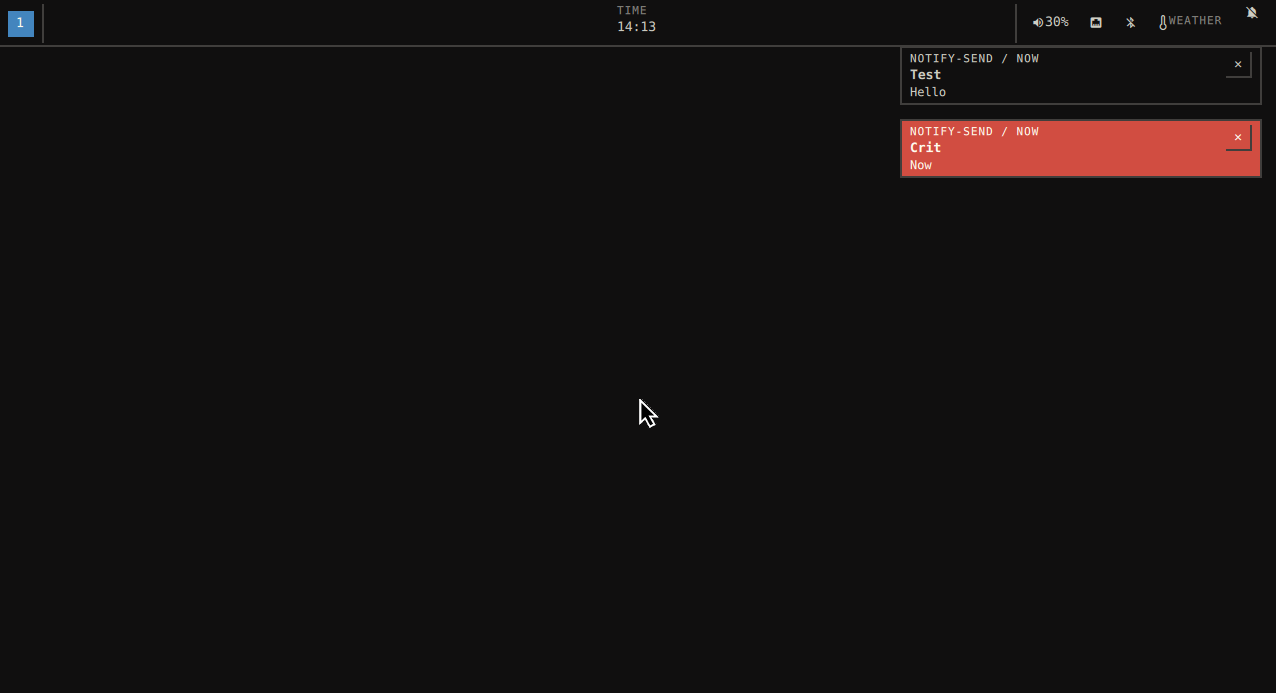
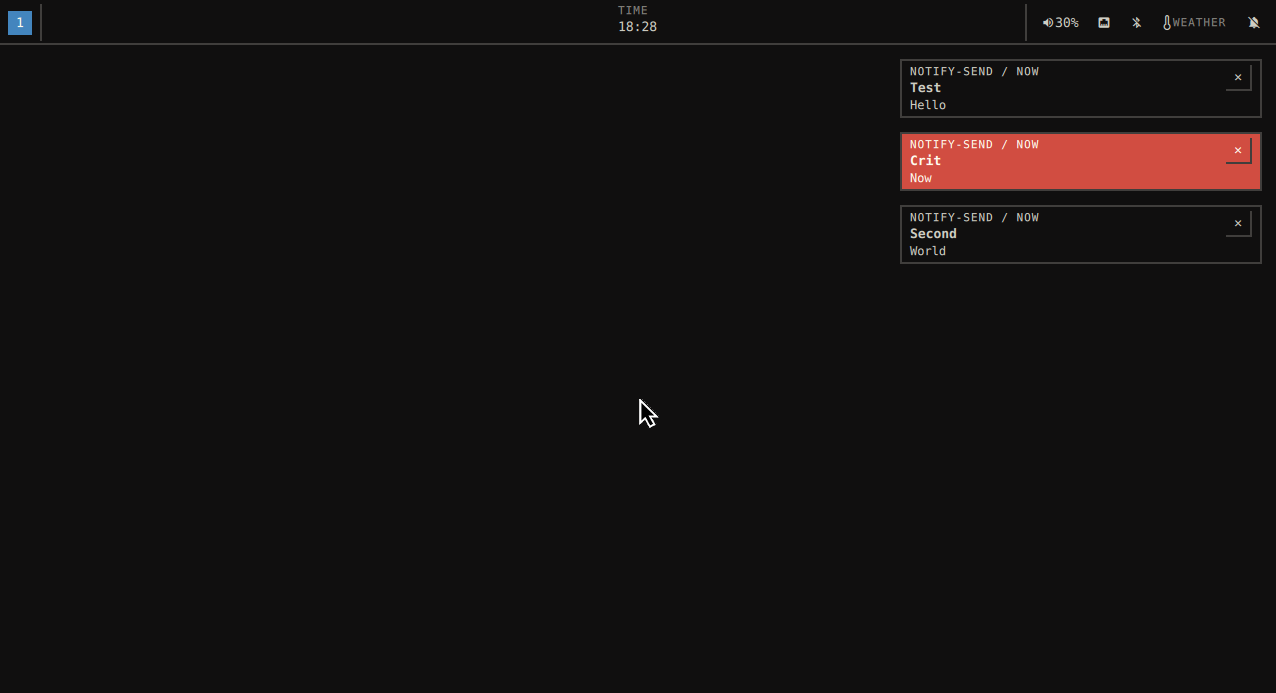
docs: cover m13b surfaces in usage/switchover and recapture screenshots

Changed region(s): [[0.0, 0.0, 1.0, 0.3939]]

diff --git a/docs/SWITCHOVER.md b/docs/SWITCHOVER.md
@@ -86,6 +86,29 @@ typing into a refocused window (the rig asserts the spawn via an
 argv-logging shim; the nested session has no focused client to receive
 it).
 
+**Update, 2026-07-30 (M13b):** round two of the e1504g trial feedback is
+fixed, per `docs/superpowers/plans/2026-07-30-m13b-trial-feedback-round-two.md`:
+launcher rows render real display names and the desktop entry's icon-theme
+icon as an image (the "apps list shows app IDs" symptom was the raw icon
+*name* — conventionally equal to the id — rendering as literal text in the
+glyph slot); a `bell` widget joins the default bar layout (pending count,
+left click toggles the center, right click flips DND — the DND glyph moves
+there from the indicators slot); `theme mode toggle` works with no
+wallpaper set (mode-matched Flexoki fallback written through the same
+theme.json pipeline matugen uses); the nix runner shows honest
+`SEARCHING`/`NO RESULTS`/`SEARCH FAILED`/`NO NIX` states and fires a
+`NIX RUN` toast on Enter; and the screensaver cycles effects indefinitely
+after a `screensaver.holdSeconds` hold instead of freezing on first
+convergence. All VM-only verified (mac VM rig; e1504g is mid-trial and
+untouched). Host-trial territory, recorded rather than faked: a real
+host's icon theme resolving real apps' icons (the rig proves one honestly
+installed hicolor fixture icon plus the no-icon fallback), real
+`nix search` timing against cold evaluation caches (the rig's nix is a
+canned shim; the `SEARCHING` row exists precisely for that
+tens-of-seconds first run), and the wall-clock feel of screensaver
+cycling overnight (the rig shortens `holdSeconds` and watches the
+`cycles` counter, not hours of runtime).
+
 ## 1. Parity table
 
 Evidence sources: the e1504g sweep at commit `1300b02`
@@ -105,10 +128,12 @@ hardware.
 | Bar | Hardware-verified | e1504g @ 1300b02, `artifacts/e1504g/plain.png`; g815 HEAD sweep @ 52e2db0, `artifacts/g815-head/plain.png` (`docs/screenshots/bar-niri.png`) — real BAT/Wi-Fi/Bluetooth cells the VM cannot produce, and confirms the `ca56dfc` padding fix (symmetric insets, no left/top-only gutter) on real hardware |
 | Bar: workspaces order + hide-empty | VM-only | M13 (3c7d6fd): cells sort by the backend's per-output `idx` ordinal and a workspace renders only when occupied or active/focused (`shell/Bar/workspaces.js`, unit-covered in `tests/tst_workspaces_model.qml` over fake workspace+window models). Every plain VM smoke screenshot shows the nested session's occupied/focused workspaces only; the shaping host context — nine persistent named niri workspaces, which DMS hid when empty — is exactly what the e1504g trial itself verifies |
 | Bar: SNI tray | VM-only | mac VM rig @ bd20ef6, `dev/smoke-niri.sh --tray`, `docs/screenshots/tray-niri.png` (recaptured 2026-07-30 with M13's vertically centered cells) — six real `dev/sni-stub.py` StatusNotifierItems collapse to three pinned cells plus a "+3" overflow drawer, which expands to "−3" over the same `tray expand` IPC call the overflow cell's own click takes. M13 (783275d) added item interactions: the `--tray` drive calls `tray activate` and asserts the stub's `--activate-file` recorded a real `Activate(x, y)` over the session bus; DBusMenu *open* on a real click renders a platform QMenu no headless run can dismiss, so that leg — and any real application's menu contents — is host-trial territory. Not yet re-swept on a real host |
-| Bar: indicators slot | VM-only | mac VM rig @ bd20ef6, `dev/smoke-niri.sh --notify`, `docs/screenshots/indicators-niri.png` — the DND bell-off glyph appears after `notifications setDnd true` over IPC; idle-inhibit shares the same widget and reactivity fix but has no dedicated smoke screenshot yet; not yet re-swept on a real host |
+| Bar: indicators slot | VM-only | mac VM rig @ bd20ef6, `dev/smoke-niri.sh --notify` — the DND bell-off glyph appeared after `notifications setDnd true` over IPC. M13b (55e1ba4) moved DND display to the bell widget (row below), leaving this slot idle-inhibit only; idle-inhibit shares the same reactivity fix but has no dedicated smoke screenshot yet; not yet re-swept on a real host |
+| Bar: notification bell | VM-only | M13b (55e1ba4): `bell` joins the default right region (the one owner-requested default-layout change; every no-config smoke screenshot now shows the cell). `dev/smoke-niri.sh --notify` flips DND over IPC and screenshots the bell-off swap (`docs/screenshots/indicators-niri.png`, recaptured 2026-07-30 — the bell cell crossed out with three toast cards up); `--center` asserts `notifications status` (new verb) through pending:3 → centerOpen:true → pending:0 across a showHistory toggle, the same center.open()/close() the cell's own left click calls. A real pointer click on the cell is host-trial territory (no synthetic pointer exists in the rig) |
 | Bar: settings-driven layout + custom modules | VM-only | mac VM rig @ bd20ef6, `dev/smoke-niri.sh --bar-layout` — a reordered left region led by six `bar.modules` entries: one happy-path `command` module (`CMD 42`), four exercising each of `CommandModule.qml`'s failure paths (all render the honest `MODULE ERROR` cell), and one `qml` module (`QML OK`); every other smoke mode's own screenshot, carrying no `bar` config, keeps proving the no-config fallback renders today's exact default arrangement; not yet re-swept on a real host. `docs/screenshots/bar-layout-niri.png` was recaptured 2026-07-30 with the M12 `github` cell heading the region, which pushes the `qml` module past the visible clip at the VM's 1276px width — its rendering stays proven by the bd20ef6 capture and `tests/tst_bar_layout.qml` |
 | Bar: github widget + panel | VM-only | mac VM rig @ 8dfbe55, `dev/smoke-niri.sh --bar-layout` with a PATH-shimmed `gh` returning canned counts — `docs/screenshots/bar-layout-niri.png` (recaptured 2026-07-30) shows the octicon + `3/2` cell leading the custom left region; every default-layout mode's screenshot keeps proving the widget is absent without opt-in. M13 (fb65ee2) replaced the cell's xdg-open jump with a GithubPanel (two ledger sections, title + dimmed repo rows, row click opens the URL): `dev/smoke-niri.sh --panel github` drives `panel open github` against the extended gh shim and screenshots both sections' canned rows. Real `gh` auth states (`NO AUTH`, live counts) and real row-click xdg-open remain host-trial territory |
 | Menu | Hardware-verified | e1504g @ 1300b02, `artifacts/e1504g/menu.png`; g815 HEAD sweep @ 52e2db0, `artifacts/g815-head/menu.png` (`docs/screenshots/menu-niri.png`) |
+| Menu: app names + icons | VM-only | M13b (b838b8e), `dev/smoke-niri.sh --menu` — two fixture `.desktop` entries in the isolated HOME, one with a 48x48 icon honestly installed into the hicolor tree, one whose icon no theme here resolves: `debug query` asserts both rows carry display-name labels (`Iconic Test App`, `Formal Test App`, never raw ids) with `iconSource` set only for the resolvable one, and `docs/screenshots/menu-apps-niri.png` (2026-07-30) shows the icon rendered as a real image beside the no-icon fallback row. The e1504g trial's own icon theme resolving real apps (firefox, mpv, …) is exactly what the host must confirm |
 | Panel: audio | Hardware-verified, fix now visually confirmed | e1504g @ 1300b02 found the percentage-lost-behind-elision defect (`artifacts/e1504g/panel-audio.png`); fixed at `4aad1d6`. **Closed:** the g815 HEAD sweep @ 52e2db0 re-screenshotted it against real long device names (`GB206 High Definition Audio Controll.`, `800 Series Chipset Family Audio Cont.`) at plausible non-1% percentages — `artifacts/g815-head/panel-audio.png` (`docs/screenshots/panels-niri.png`) |
 | Panel: network | Hardware-verified | e1504g @ 1300b02, `artifacts/e1504g/panel-network.png`; g815 HEAD sweep @ 52e2db0, `artifacts/g815-head/panel-network.png` — real SSID `kaiiserni` at 62% (the 0..1-scaling bug stayed fixed on a second real host) |
 | Panel: bluetooth | Hardware-verified, fix now visually confirmed | e1504g @ 1300b02 found the adapter-state title-case defect (`artifacts/e1504g/panel-bluetooth.png`); fixed at `4aad1d6`. **Closed:** the g815 HEAD sweep @ 52e2db0 re-screenshotted it against a real adapter and three real paired devices (`MX Master 3S M`, `CMF Headphone Pro`, `AirPods Pro`), status correctly uppercase `ENABLED` — `artifacts/g815-head/panel-bluetooth.png` |
@@ -119,7 +144,7 @@ hardware.
 | Calendar: RRULE expansion | VM-only | `tests/tst_calendar_ics.qml` @ aa3c61a — bounded expansion of FREQ=DAILY/WEEKLY/MONTHLY/YEARLY with INTERVAL/COUNT/UNTIL/weekly-BYDAY/EXDATE, unsupported rules falling back to a single occurrence. Pure-JS logic, so the headless tests are the whole evidence; there is nothing to screenshot |
 | Menu: calculator | VM-only | mac VM rig @ 61da420, `dev/smoke-niri.sh --menu` — `debug query "2+2*3"` returns the `= 8` CALC row as the first ranked result (the run's `calc-query.json` artifact); parser edge cases in `tests/tst_menu_calc.qml` |
 | Menu: emoji | VM-only | mac VM rig @ 913d9a3, `dev/smoke-niri.sh --menu` — `debug query ":e thumbs"` returns the 👍 THUMBS UP row from the vendored `emoji.json` (the run's `emoji-query.json` artifact); dataset load + search in `tests/tst_menu_emoji.qml` |
-| Menu: nix runner | VM-only | mac VM rig @ 76757d5, `dev/smoke-niri.sh --menu` — two-pass `debug query ":nix hello"` against the PATH-shimmed `nix` returns the canned `hello` attr row after the 500ms debounce (the run's `nix-query.json` artifact). Real `nix search`/`ghostty` spawn behaviour is host-trial territory |
+| Menu: nix runner | VM-only | mac VM rig @ 76757d5, `dev/smoke-niri.sh --menu` — two-pass `debug query ":nix hello"` against the PATH-shimmed `nix` returns the canned `hello` attr row after the 500ms debounce (the run's `nix-query.json` artifact). M13b (5bea2ed) added the honest states, each asserted by the extended drive against a query-dispatching shim: `SEARCHING` while the shim blocks on a gate flag file, `NO RESULTS` on a clean `{}`, `SEARCH FAILED` on a nonzero exit, plus a screenshotted `NIX RUN` toast (`nix-toast.png`) on row activation with a `notifications status` popup-count assert. Real `nix search` timing (the tens-of-seconds cold-cache first run the `SEARCHING` row exists for) and the `ghostty` spawn stay host-trial territory |
 | Screenshot IPC | VM-only | mac VM rig @ fd56a5f, `dev/smoke-niri.sh --screenshot` — `screenshot full`'s replied path exists as a valid PNG and `wl-paste --list-types` offers `image/png` in-session. M13 (d2d55a5) added the region watchdog and cancel: the extended drive starts `screenshot region`, round-trips `status` through `capturing:true`, calls `cancel`, and confirms cancelled-not-stuck state plus a still-working `full` afterward in the same session. The themed slurp overlay under a real drag stays host-trial — no synthetic pointer exists in the rig |
 | Panel: weather | **Unverified** | Never included in any real-hardware sweep (neither e1504g's 18-mode run, the older g815 run, nor the 2026-07-29 g815 HEAD resweep drove `--panel weather`); only ad hoc dev-loop crops exist in `artifacts/` (`weather-crop*.png`), not a hardware or a repeatable VM smoke run |
 | Notifications | Hardware-verified | e1504g @ 1300b02, `artifacts/e1504g/notify.png`, `notify-center.png`; g815 HEAD sweep @ 52e2db0, `artifacts/g815-head/notify.png`, `notify-center.png` (`docs/screenshots/notifications-niri.png`) |
@@ -131,6 +156,8 @@ hardware.
 | Picker | Hardware-verified | e1504g @ 1300b02, `picker-grid.png`, `picker-select.png`; g815 HEAD sweep @ 52e2db0, `artifacts/g815-head/picker-grid.png` (`docs/screenshots/picker-niri.png`), `picker-selection.png` — real matugen recolor on choose |
 | Greeter | **VM-only** | Never run against real greetd on either Linux host (neither has switched to `nixosModules.formalshell-greeter`), and this is intentionally out of scope for `dev/smoke-niri.sh`-style hardware sweeps. Verified via `just vm-greeter` / `dev/smoke-greeter.sh` on the mac VM rig, re-run 2026-07-29 at the same HEAD: real PAM auth round trip, `artifacts/greeter/greeter-pre-auth.png` (`docs/screenshots/greeter-niri.png`), `greeter-wrong-pw.png`, `greeter-post-auth.png` |
 | Theming (matugen) | Hardware-verified | e1504g @ 1300b02, `artifacts/e1504g/wallpaper.png`; g815 HEAD sweep @ 52e2db0, `artifacts/g815-head/wallpaper.png` — real matugen run recoloring bar/workspace accents from a wallpaper, confirmed on a second real host |
+| Theming: no-wallpaper mode toggle | VM-only | M13b (bf993e3), `dev/smoke-niri.sh --theme-toggle` — with wallpaper kept `""`, `theme mode toggle` flips `theme status` to `mode:"light"` and back, and the paired screenshots (`docs/screenshots/theme-dark-niri.png` / `theme-light-niri.png`, 2026-07-30, same session seconds apart) show the whole shell recoloring between the Flexoki dark and light fallbacks with no matugen involved; a following `--wallpaper` run proves the matugen path unchanged |
+| Screensaver: continuous cycling | VM-only | M13b (f336f98), `dev/smoke-niri.sh --screensaver` extended — `holdSeconds` shortened via the settings fixture, then past convergence + hold the run asserts `screensaver frameInfo`'s new `cycles` counter incremented and the reported effect changed with no IPC nudge (reroll logic unit-covered in `tests/tst_screensaver_effect.qml`: random never repeats the immediately previous effect, a pinned name rerolls a fresh seed); `--screensaver-gif` still records single deterministic effects, cycling suspended while `frame(n)` pins the surface. Overnight wall-clock feel on a real idle host is trial territory |
 
 Everything marked hardware-verified above is the **niri** backend only. The
 Hyprland backend has never run on either Linux host — it exists only as

diff --git a/docs/USAGE.md b/docs/USAGE.md
@@ -33,7 +33,7 @@ arrangement:
     "layout": {
       "left": ["workspaces", "activeWindow"],
       "center": ["clock", "nowPlaying"],
-      "right": ["battery", "audio", "network", "bluetooth", "weather", "tray", "indicators", "custom:cpu"]
+      "right": ["battery", "audio", "network", "bluetooth", "weather", "tray", "bell", "indicators", "custom:cpu"]
     },
     "modules": [
       { "id": "cpu", "type": "command", "command": ["my-cpu-script"], "interval": 5000, "timeout": 5000 }
@@ -43,8 +43,11 @@ arrangement:
 ```
 
 Builtin widget names: `workspaces`, `activeWindow`, `clock`, `nowPlaying`,
-`battery`, `audio`, `network`, `bluetooth`, `weather`, `tray`, `indicators`,
-`github` (opt-in only — never part of the default arrangement).
+`battery`, `audio`, `network`, `bluetooth`, `weather`, `tray`, `bell`,
+`indicators`, `github` (opt-in only — never part of the default
+arrangement; `bell` by contrast IS part of the defaults since M13b, so a
+config predating it that spells out its own `right` region won't show the
+bell until it's added there).
 An absent region falls back to its own default arrangement above (an
 absent `bar` key entirely is the same as an absent region for all three);
 a present-but-empty region (`[]`) stays empty. An unknown widget name, or
@@ -83,10 +86,21 @@ native-styled popup (quickshell's platform-menu path owns that widget
 outright), not a shell-themed surface. Past 4 visible items the rest
 collapse into one more cell (`+N`) that expands the row to reveal them all.
 
-**Indicators** — DND and idle-inhibit each render as their own glyph, only
-while the condition holds; the whole slot disappears when neither does.
-Recording has no glyph yet — nothing in this shell or a reachable service
-reports screen recording as of 2026-07-29.
+**Bell** — an always-visible notification cell (M13b): bell glyph, swapping
+to bell-off while DND is on, plus a pending-count meta label whenever
+notifications are sitting unseen in the `pending` tier (see
+[Notifications](#notifications)). Left click toggles the notification
+center — the same surface `notifications showHistory` drives — with the
+panel-open accent dot while it's open; right click flips DND through the
+one existing DND state machine (`notifications toggleDnd`'s), never a
+second one.
+
+**Indicators** — transient session-state glyphs, only while the condition
+holds; the whole slot disappears otherwise. Today that means idle-inhibit
+alone: the DND bell-off glyph this slot carried since M10 moved to the
+always-visible bell cell above, which owns both DND display and its
+toggle. Recording has no glyph yet — nothing in this shell or a reachable
+service reports screen recording as of 2026-07-29.
 
 **GitHub** — opt-in via `bar.layout` (add `"github"` to a region); polls one
 `gh api graphql` call every `github.intervalMs` (ms, default 300000) for the
@@ -124,8 +138,12 @@ Colors are wallpaper-derived end to end, no restart required:
    `$XDG_STATE_HOME/formalshell/theme.json` and `niri-border.kdl`. `Theme`
    (the shell's color singleton) watches `theme.json` live, so every bar
    token recolors on the next paint. With no wallpaper set, `theme.json` is
-   written straight from the static Flexoki fallback instead, so the
-   pipeline is uniform from a fresh install.
+   written straight from the bundled Flexoki fallback instead — the variant
+   matching the current mode (M13b), so `theme mode toggle` visibly flips
+   the whole shell between Flexoki dark and light through the exact same
+   theme.json write a matugen run uses, and the pipeline is uniform from a
+   fresh install (whose seeded first-boot theme.json stays the dark
+   variant).
 4. A per-screen `Background` surface (background Wayland layer) shows the
    current wallpaper, or a flat `Theme.color.background` fill when none is
    set.
@@ -182,6 +200,15 @@ submenu. `when`/`checked` are shell condition strings, batched into one
 `Process` per condition on menu-open (never per keystroke) — `when: "false"`
 hides a node outright, a real command's exit code decides visibility live
 (e.g. `system.logout`'s `test -n "$NIRI_SOCKET"` guard).
+
+**App rows.** Each launchable app shows the entry's display name (falling
+back to its id only when the name is genuinely empty) and renders the
+entry's icon-theme icon as an image at the glyph cell's size — radius 0,
+no border, `docs/DESIGN.md`'s one sanctioned image-icon exception (M13b;
+before that the raw icon *name*, which conventionally equals the app id,
+rendered as literal text in the icon slot). An icon the current theme
+can't resolve means the row simply has no leading image — never a
+broken-image box.
 
 **User overrides.** `~/.config/formalshell/menu.jsonc` merges **per-key over**
 the default tree — user wins field-by-field, and `"hidden": true` removes a
@@ -246,10 +273,17 @@ same rows (`:e thumbs` → 👍); a bare `:e` browses the head of the list.
 **Nix package runner.** `menu summon nix` (or the `:nix <query>` root
 trigger) searches nixpkgs as you type: a debounced (500ms, one in-flight,
 stale results dropped) `nix search nixpkgs <query> --json`, rows showing
-attr name + version with a dimmed description. Enter spawns the package in
-a throwaway terminal (`ghostty -e sh -c 'nix run nixpkgs#<attr>; read'` —
-`read` holds the window open after it exits). No `nix` on PATH renders a
-single dim `NO NIX` row instead.
+attr name + version with a dimmed description. Every state renders
+honestly as a single dim, non-activatable note row (M13b — a real host's
+first `nix search` can spend tens of seconds warming evaluation caches,
+which used to look like nothing happening): `SEARCHING` while a run is in
+flight, `NO RESULTS` for a clean zero-hit answer, `SEARCH FAILED` for a
+non-zero exit or unparseable output, and `NO NIX` when the binary is
+missing from PATH entirely. Enter on a result spawns the package in a
+throwaway terminal (`ghostty -e sh -c 'nix run nixpkgs#<attr>; read'` —
+`read` holds the window open after it exits) and immediately fires a
+`NIX RUN <attr>` notification through the shell's own stack, so the launch
+is visible even while the terminal is still seconds from mapping.
 
 **IPC.** Every route is summonable for direct compositor keybinds:
 `toggle()` (deliberately no-argument — root summon if closed, close if
@@ -318,10 +352,16 @@ from urgency alone.
 — it survives shell restarts and `keepOnReload` generation switches instead
 of silently resetting to off.
 
+**The bar's bell cell** (see [Bar](#bar)) drives the same machinery with a
+pointer: left click toggles the center `showHistory` drives, right click
+flips the same DND flag `toggleDnd` does, and its pending-count meta label
+reads the same `pending` tier `status` reports.
+
 **IPC** (`target: "notifications"`):
 
 ```bash
 qs ipc --any-display -p <store-path>/share/formalshell call notifications showHistory     # toggle the center
+qs ipc --any-display -p <store-path>/share/formalshell call notifications status          # {"dnd":…,"pending":…,"popups":…,"centerOpen":…}
 qs ipc --any-display -p <store-path>/share/formalshell call notifications toggleDnd       # flip DND, returns "on"/"off"
 qs ipc --any-display -p <store-path>/share/formalshell call notifications dndState        # "on" | "off"
 qs ipc --any-display -p <store-path>/share/formalshell call notifications markAllSeen     # drain pending -> past
@@ -707,6 +747,17 @@ falls back to random and logs a warning, never a hard error):
 { "screensaver": { "effect": "decrypt" } }
 ```
 
+**Continuous cycling** (M13b). After converging, the banner holds for
+`screensaver.holdSeconds` (default 6), then the surface rerolls and
+animates again, indefinitely, until real input dismisses it —
+`"random"` picks a fresh effect each cycle and never repeats the
+immediately previous one, a pinned name replays itself with a fresh
+activation seed so the run still looks different. The loop takes no idle
+inhibitor, so system suspend fires exactly as it would without it.
+`screensaver frameInfo` reports the resolved effect, its convergence
+frame, and a `cycles` counter (completed reroll count, 0 until the first
+one) so cycling is observable without screenshots.
+
 **Replacing the banner.** `screensaver.asciiPath` points at any UTF-8 text
 file to use instead of the bundled logo — empty (the default) keeps
 `branding/screensaver.txt`, and a custom file that fails to load falls back
@@ -731,6 +782,7 @@ into the lock screen after continuing to show for that much longer.
 qs ipc --any-display -p <store-path>/share/formalshell call screensaver start
 qs ipc --any-display -p <store-path>/share/formalshell call screensaver stop
 qs ipc --any-display -p <store-path>/share/formalshell call screensaver status  # {"active":…,"isIdle":…,"guardMediaPlayback":…,"mediaPlaying":…}
+qs ipc --any-display -p <store-path>/share/formalshell call screensaver frameInfo  # {"effect":…,"convergenceFrame":…,"cycles":…}
 ```
 
 `dev/smoke-niri.sh --screensaver` additionally accepts `SCREENSAVER_EFFECT`

diff --git a/README.md b/README.md
@@ -12,10 +12,10 @@ modules so a consuming config needs almost no glue.
 
 ![FormalShell bar on niri](docs/screenshots/bar-niri.png)
 
-**Status:** pre-alpha. M1 through M13 (walking skeleton through the greeter
+**Status:** pre-alpha. M1 through M13b (walking skeleton through the greeter
 and NixOS modules, bar completeness, screensaver effect gifs, DMS parity
-gaps + EDS/GOA calendar events, and the first e1504g daily-drive trial's
-feedback fixes) are complete, behind CI (qmllint + headless
+gaps + EDS/GOA calendar events, and two rounds of e1504g daily-drive trial
+feedback) are complete, behind CI (qmllint + headless
 qml-tests) and nested-compositor smoke loops for every change. See
 `docs/SWITCHOVER.md` for the current hardware-vs-VM verification parity
 table before switching a real machine over, and
@@ -29,14 +29,17 @@ launches it inside an isolated **nested** niri session, screenshots that
 session, and tears it down — safe to run against a live host by design.
 Most were recaptured 2026-07-29 from **g815**, the owner's real niri
 machine, showing genuinely populated hardware (real battery, Wi-Fi,
-Bluetooth, audio, backlight) rather than the VM's empty state. The greeter
-shot, the M10 bar shots (tray, indicators, custom modules), and the three
-M13 recaptures (tray with vertically centered cells, custom modules with
-the github cell and the idx-sorted workspace region, calendar with a
-selected day's inverted cell) are VM-sourced — no greetd module on g815
-yet, and g815 hasn't been re-swept since M10 landed. Details on what each shot proves are
-in `CLAUDE.md`'s verification loop section (the `dev/smoke-niri.sh` flag
-each was captured with) and git history.
+Bluetooth, audio, backlight) rather than the VM's empty state — those
+shots predate M13b, so their bars lack the notification bell cell. The
+greeter shot, the M10 bar shots (tray, custom modules), the three M13
+recaptures (tray with vertically centered cells, custom modules with the
+github cell and the idx-sorted workspace region, calendar with a selected
+day's inverted cell), and the four M13b shots (the bell cell in its DND
+state, launcher rows with a real icon image, and the no-wallpaper theme
+toggle pair) are VM-sourced — no greetd module on g815 yet, and g815
+hasn't been re-swept since M10 landed. Details on what each shot proves
+are in `CLAUDE.md`'s verification loop section (the `dev/smoke-niri.sh`
+flag each was captured with) and git history.
 
 | | | |
 | :---: | :---: | :---: |
@@ -44,7 +47,8 @@ each was captured with) and git history.
 | <img src="docs/screenshots/osd-niri.png" width="260"><br>**OSD** — g815 | <img src="docs/screenshots/panels-niri.png" width="260"><br>**Panels** — g815 | <img src="docs/screenshots/calendar-niri.png" width="260"><br>**Calendar** — mac VM |
 | <img src="docs/screenshots/clipboard-niri.png" width="260"><br>**Clipboard** — g815 | <img src="docs/screenshots/media-niri.png" width="260"><br>**Now playing** — g815 | <img src="docs/screenshots/lock-niri.png" width="260"><br>**Lock screen** — g815 |
 | <img src="docs/screenshots/screensaver-niri.png" width="260"><br>**Screensaver** — g815 | <img src="docs/screenshots/picker-niri.png" width="260"><br>**Picker** — g815 | <img src="docs/screenshots/greeter-niri.png" width="260"><br>**Greeter** — mac VM |
-| <img src="docs/screenshots/tray-niri.png" width="260"><br>**Tray** — mac VM | <img src="docs/screenshots/indicators-niri.png" width="260"><br>**Indicators** — mac VM | <img src="docs/screenshots/bar-layout-niri.png" width="260"><br>**Custom bar modules** — mac VM |
+| <img src="docs/screenshots/tray-niri.png" width="260"><br>**Tray** — mac VM | <img src="docs/screenshots/indicators-niri.png" width="260"><br>**Bell (DND) + toasts** — mac VM | <img src="docs/screenshots/bar-layout-niri.png" width="260"><br>**Custom bar modules** — mac VM |
+| <img src="docs/screenshots/menu-apps-niri.png" width="260"><br>**Launcher app icons** — mac VM | <img src="docs/screenshots/theme-dark-niri.png" width="260"><br>**Theme toggle: dark** — mac VM | <img src="docs/screenshots/theme-light-niri.png" width="260"><br>**Theme toggle: light** — mac VM |
 
 The Hyprland backend is implemented and verified against a live nested
 session's `debug` IPC dump, but nested Hyprland doesn't yet reliably reach a
@@ -65,16 +69,19 @@ in **[`docs/USAGE.md`](docs/USAGE.md)**. In brief:
 
 - **Bar** — three regions (left/center/right): workspaces (idx-sorted,
   empty ones hidden), active window, an SNI tray with a grouped overflow
-  drawer and click-through to item activation and DBus menus,
-  DND/idle-inhibit indicators, clock, battery, audio, network/Bluetooth,
-  weather, now playing, an opt-in GitHub PR/issue counter — fully
-  reorderable from `settings.json`, plus custom `command` and `qml` widget
-  modules.
+  drawer and click-through to item activation and DBus menus, a
+  notification bell (pending count, click opens the center, right click
+  flips DND), an idle-inhibit indicator, clock, battery, audio,
+  network/Bluetooth, weather, now playing, an opt-in GitHub PR/issue
+  counter — fully reorderable from `settings.json`, plus custom `command`
+  and `qml` widget modules.
 - **Menu** — one fuzzy-searchable, keyboard-driven surface doubling as app
-  launcher, system/power menu, and a `select`/`input` dmenu replacement —
-  with an inline calculator row, an emoji picker (`:e`) that copies AND
-  auto-types the pick, a nixpkgs package runner (`:nix`), and a wallpaper
-  entry opening the picker grid built in as routes.
+  launcher (rows carry each app's themed desktop icon), system/power menu,
+  and a `select`/`input` dmenu replacement — with an inline calculator row,
+  an emoji picker (`:e`) that copies AND auto-types the pick, a nixpkgs
+  package runner (`:nix`, with honest searching/failed/empty states and a
+  launch toast), and a wallpaper entry opening the picker grid built in as
+  routes.
 - **Notifications** — a mako-replacement stack: freedesktop server,
   independent card toasts, a summonable history center, a narrow DND bypass.
 - **OSD** — one jitter-free bottom-center card for volume, brightness, and
@@ -92,7 +99,8 @@ in **[`docs/USAGE.md`](docs/USAGE.md)**. In brief:
 - **Lock screen** — a real `WlSessionLock` + PAM, with the design's one
   sanctioned blur exception.
 - **Screensaver** — an idle-driven terminal-effect banner with five
-  convergence effects.
+  convergence effects, rerolling to a fresh one indefinitely until real
+  input dismisses it.
 - **Picker** — a ledger-grid wallpaper/image selector, also usable as a
   generic image-select IPC surface.
 - **Screenshots** — a `screenshot full`/`region`/`cancel` IPC target
@@ -104,7 +112,9 @@ in **[`docs/USAGE.md`](docs/USAGE.md)**. In brief:
 - **Greeter** — a greetd session rendering as the lock screen's visual twin,
   with real PAM authentication.
 - **Theming** — wallpaper-driven matugen colors recolor every bar token and
-  niri's window borders live, no restart required.
+  niri's window borders live, no restart required; with no wallpaper set,
+  the dark/light toggle flips between bundled Flexoki palettes through the
+  same pipeline.
 - **Compositor-agnostic** — a formal `CompositorBackend` contract, with
   working niri and Hyprland implementations.
 
